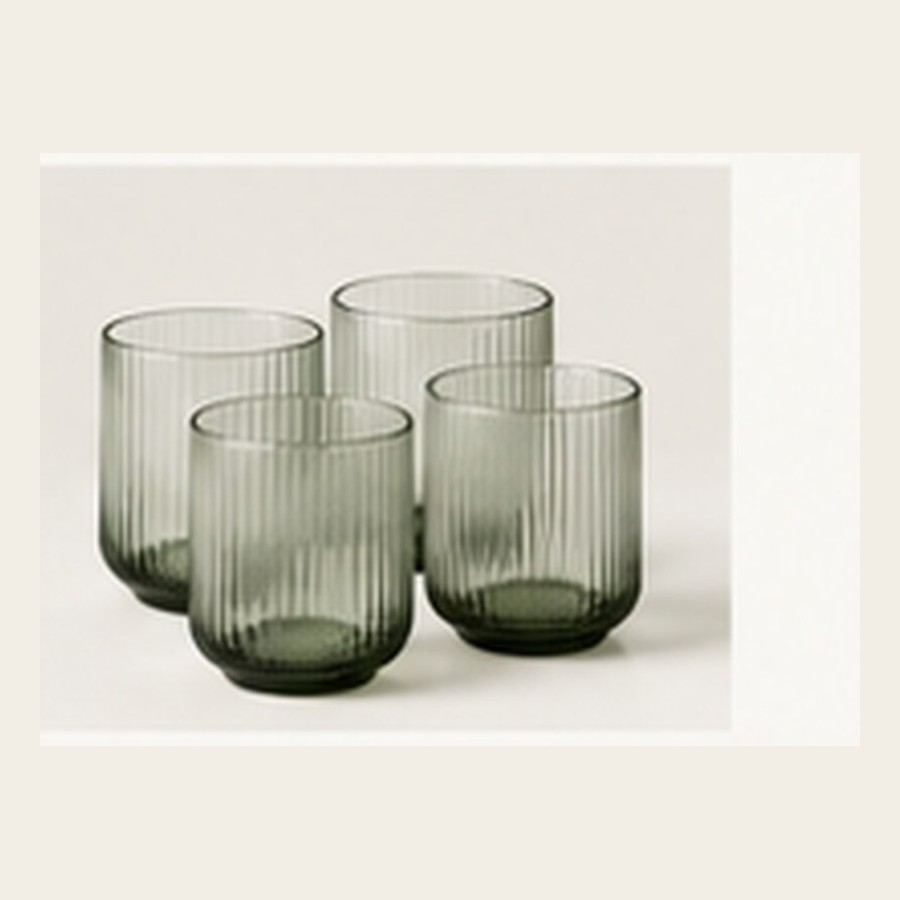
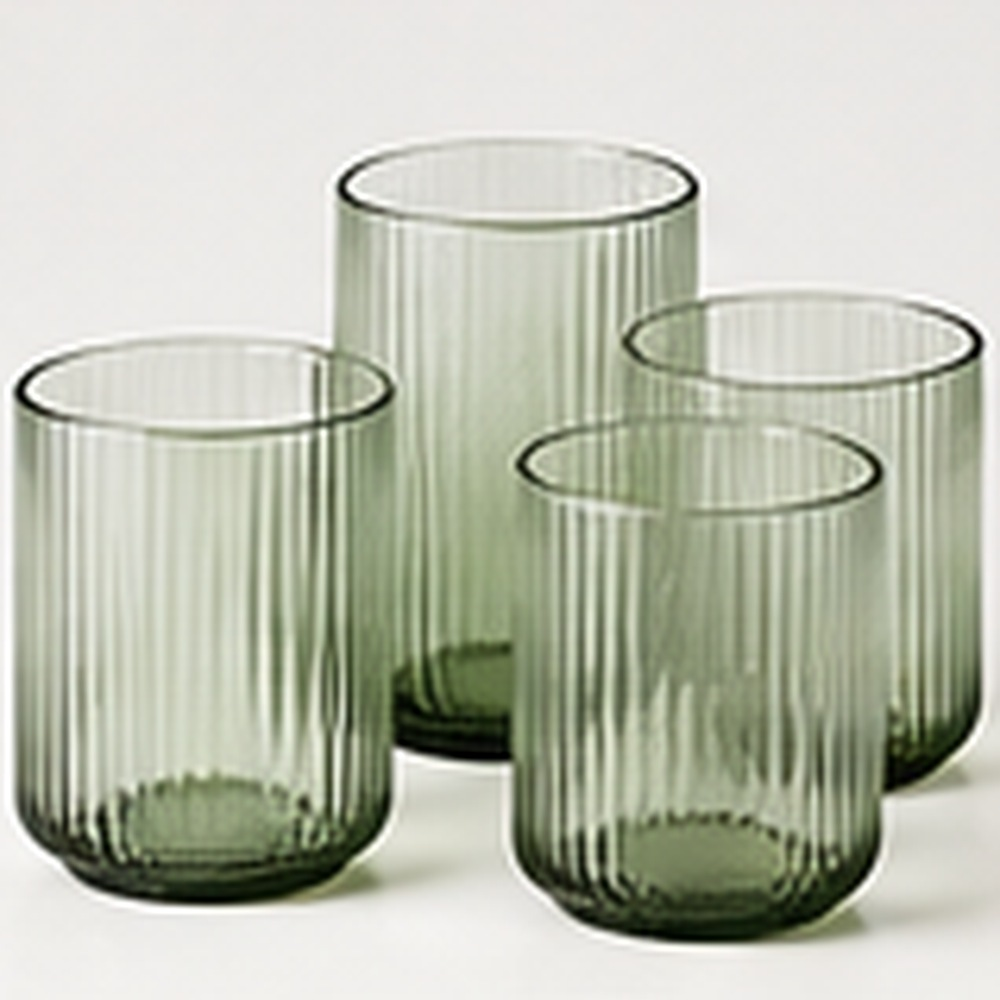
Add files via upload

diff --git a/README.md b/README.md
@@ -52,3 +52,6 @@ The V2 update replaces the empty/incorrect category and Journal panels with indi
 
 ## V3 Image Repair
 Product card images were rebuilt from the clean photography area of the source assets. Embedded catalog labels, prices, and UI text are removed; each product now uses a single centered product photograph.
+
+## V4 Image Refinement
+V4 replaces the product and collection photography with clean, individually cropped images from the approved storefront visual. Each image is isolated from surrounding UI text and fitted consistently for the product grid. The utensil product copy was aligned with its approved image.
